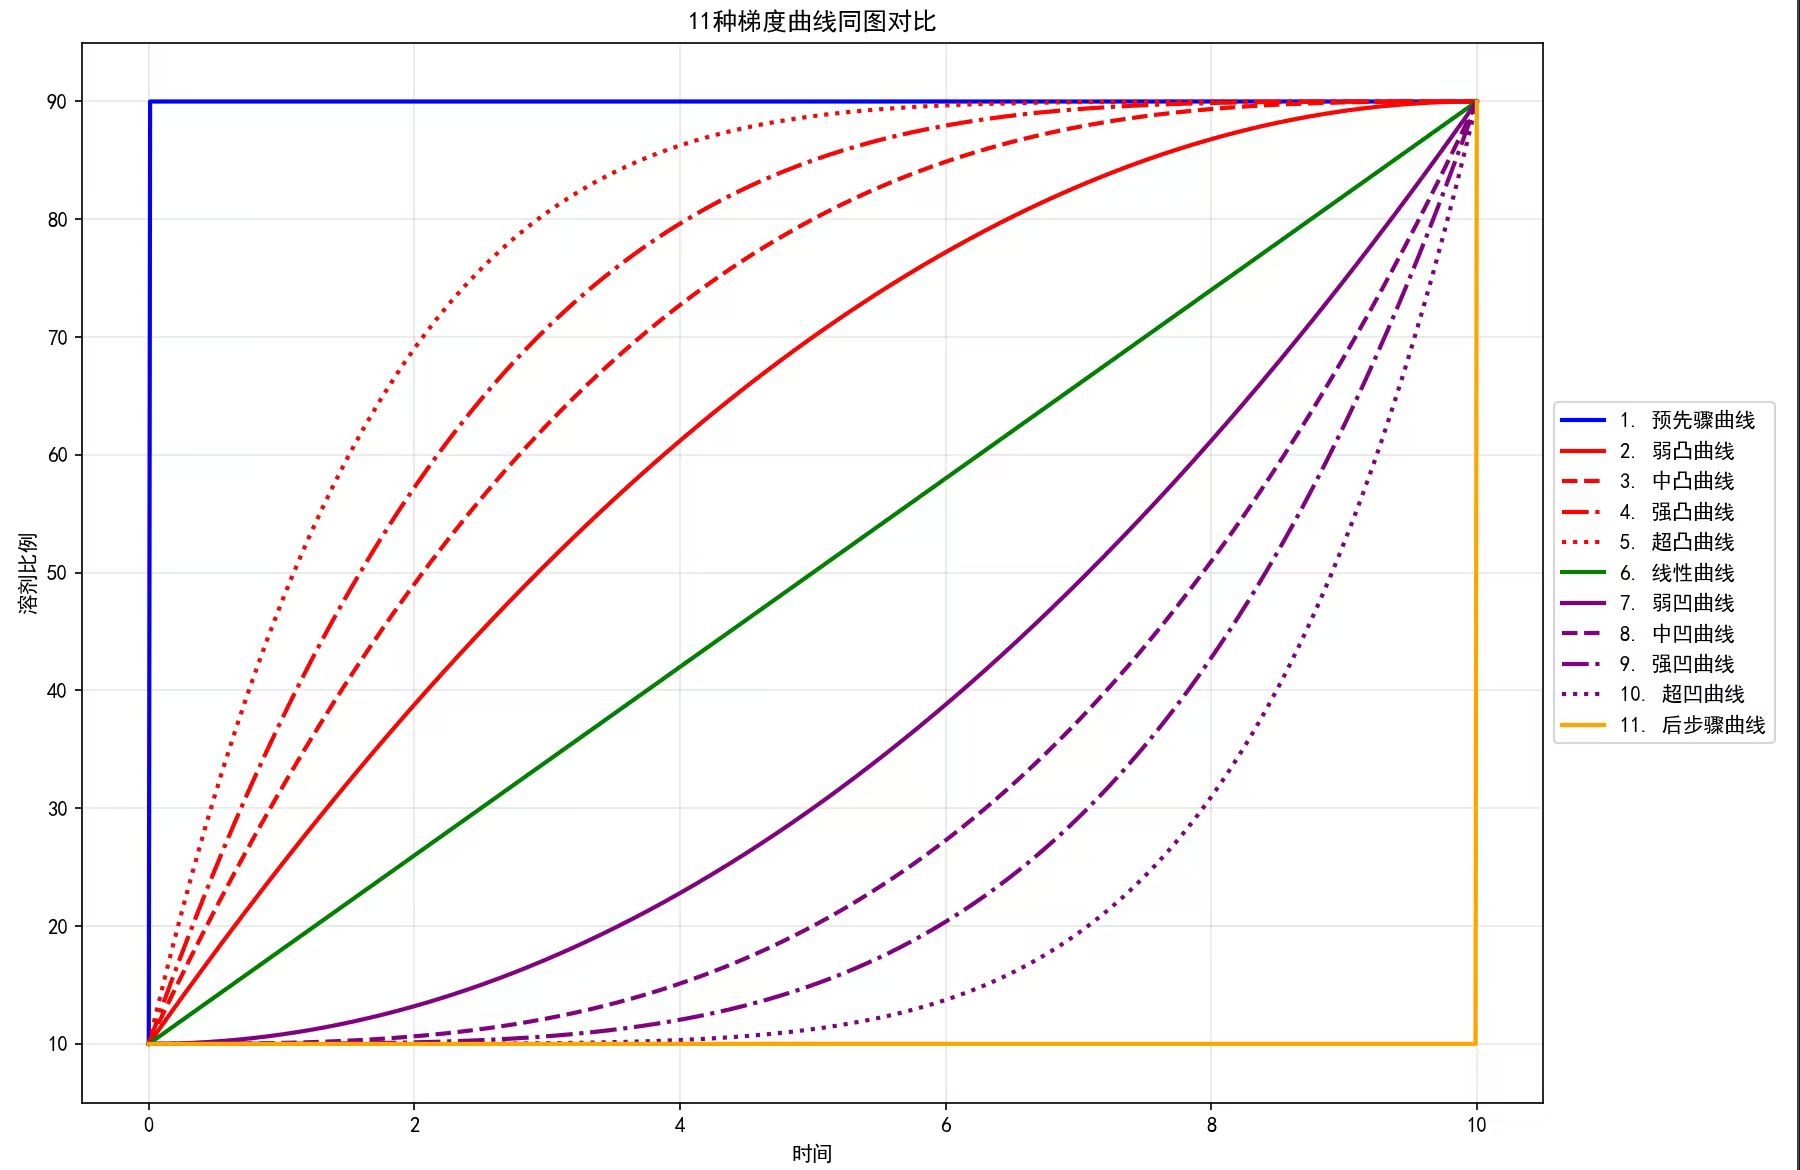
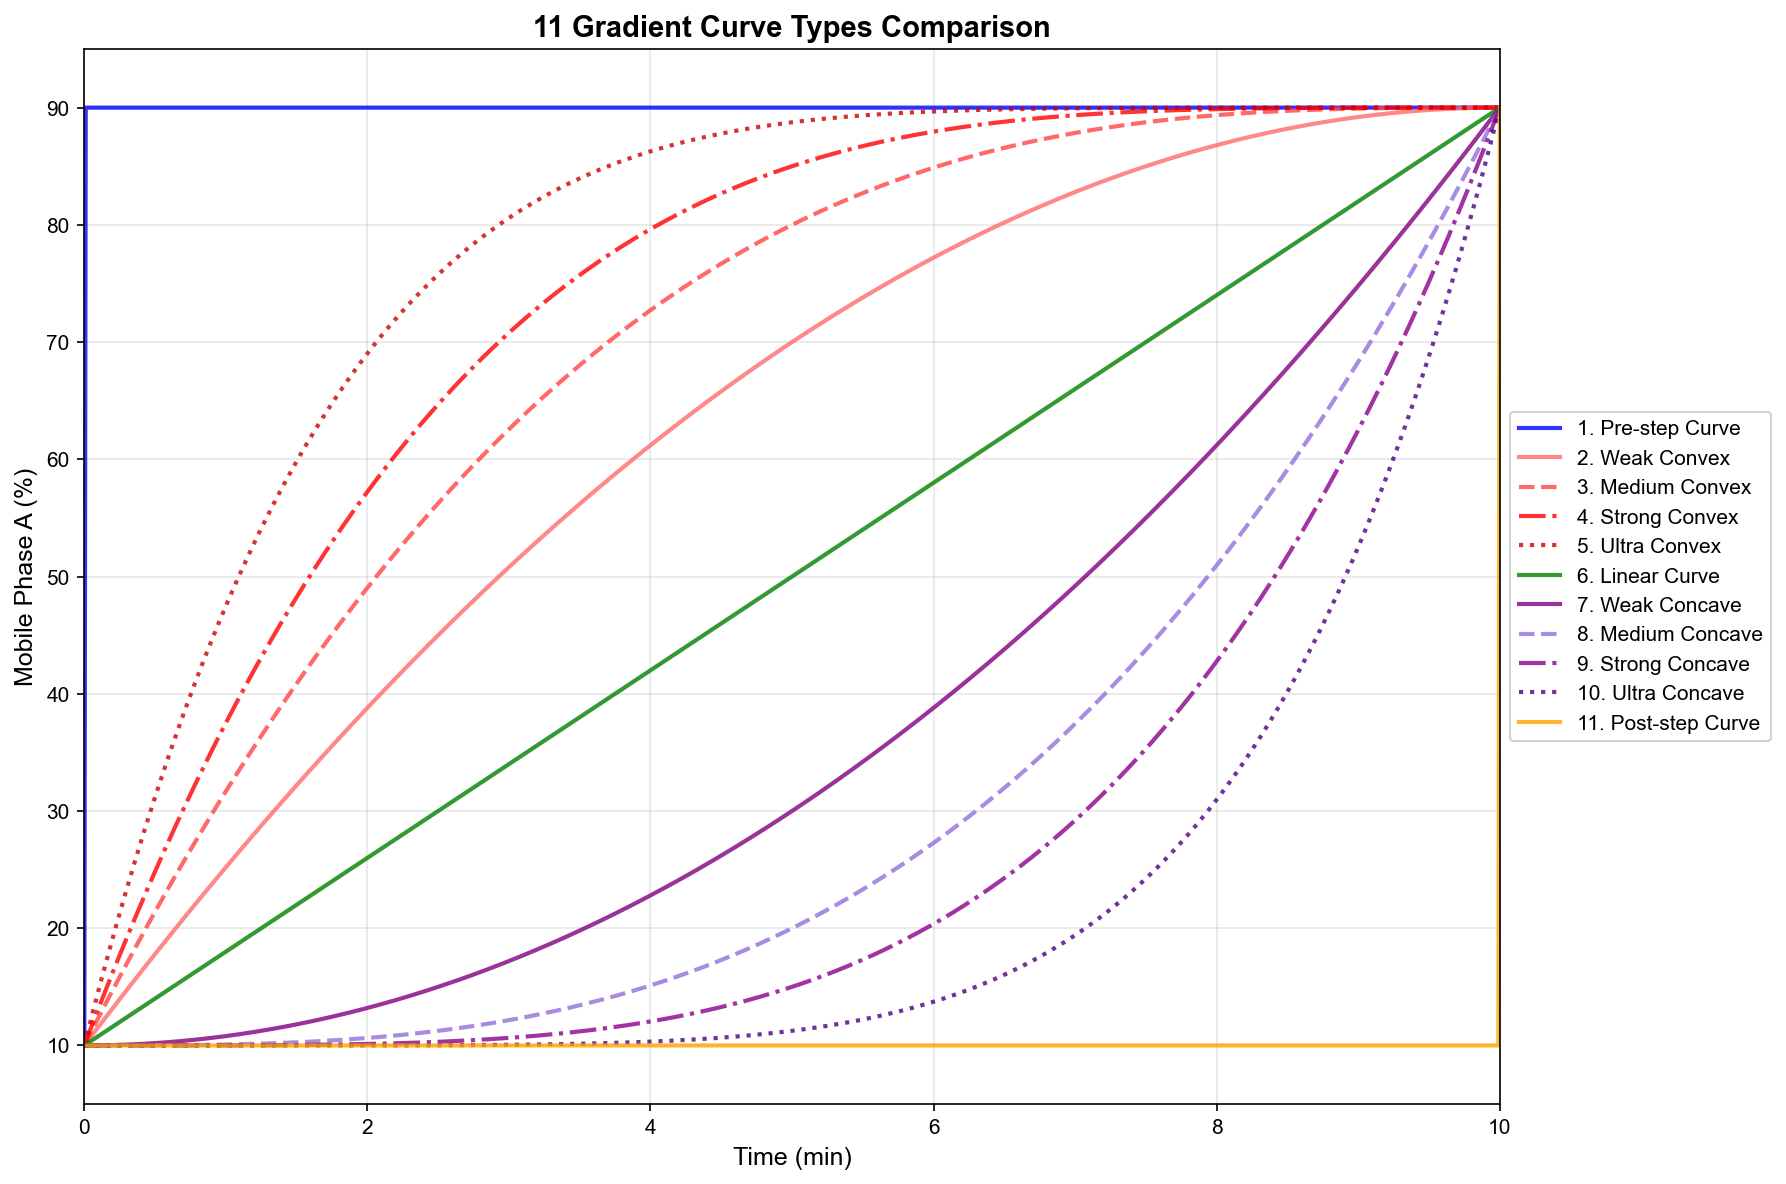
Ch

diff --git a/frontend/src/pages/AboutPage.tsx b/frontend/src/pages/AboutPage.tsx
@@ -173,64 +173,56 @@ const AboutPage: React.FC = () => {
           </Col>
           
           <Col span={10}>
-            <Row gutter={[12, 12]}>
-              <Col span={24}>
-                <Card size="small" type="inner">
-                  <Tag color="blue">1. Pre-step Curve</Tag>
-                  <Paragraph style={{ fontSize: 14, marginTop: 8, marginBottom: 0 }}>
-                    Jumps immediately to final value at start.
-                  </Paragraph>
-                </Card>
-              </Col>
-              <Col span={24}>
-                <Card size="small" type="inner">
-                  <Tag color="red">2-4. Convex Curve Series</Tag>
-                  <Paragraph style={{ fontSize: 14, marginTop: 8, marginBottom: 0 }}>
-                    Rapid change in early stage, slower in later stage.
-                  </Paragraph>
-                </Card>
-              </Col>
-              <Col span={24}>
-                <Card size="small" type="inner">
-                  <Tag color="orange">5. Super Convex Curve</Tag>
-                  <Paragraph style={{ fontSize: 14, marginTop: 8, marginBottom: 0 }}>
-                    Extremely rapid initial change, almost no change in later stage.
-                  </Paragraph>
-                </Card>
-              </Col>
-              <Col span={24}>
-                <Card size="small" type="inner">
-                  <Tag color="green">6. Linear Curve</Tag>
-                  <Paragraph style={{ fontSize: 14, marginTop: 8, marginBottom: 0 }}>
-                    Uniform change, most commonly used gradient type.
-                  </Paragraph>
-                </Card>
-              </Col>
-              <Col span={24}>
-                <Card size="small" type="inner">
-                  <Tag color="purple">7-9. Concave Curve Series</Tag>
-                  <Paragraph style={{ fontSize: 14, marginTop: 8, marginBottom: 0 }}>
-                    Slow change in early stage, accelerates in later stage.
-                  </Paragraph>
-                </Card>
-              </Col>
-              <Col span={24}>
-                <Card size="small" type="inner">
-                  <Tag color="magenta">10. Super Concave Curve</Tag>
-                  <Paragraph style={{ fontSize: 14, marginTop: 8, marginBottom: 0 }}>
-                    Almost no change in early stage, rapid change in later stage.
-                  </Paragraph>
-                </Card>
-              </Col>
-              <Col span={24}>
-                <Card size="small" type="inner">
-                  <Tag color="gold">11. Post-step Curve</Tag>
-                  <Paragraph style={{ fontSize: 14, marginTop: 8, marginBottom: 0 }}>
-                    Maintains initial value, jumps to final value at last moment.
-                  </Paragraph>
-                </Card>
-              </Col>
-            </Row>
+            <div style={{ display: 'flex', flexDirection: 'column', gap: '12px' }}>
+              <Card size="small" type="inner">
+                <Tag color="blue">1. Pre-step Curve</Tag>
+                <Paragraph style={{ fontSize: 14, marginTop: 8, marginBottom: 0 }}>
+                  Jumps immediately to final value at start.
+                </Paragraph>
+              </Card>
+              
+              <Card size="small" type="inner">
+                <Tag color="red">2-4. Convex Curve Series</Tag>
+                <Paragraph style={{ fontSize: 14, marginTop: 8, marginBottom: 0 }}>
+                  Rapid change in early stage, slower in later stage.
+                </Paragraph>
+              </Card>
+              
+              <Card size="small" type="inner">
+                <Tag color="orange">5. Super Convex Curve</Tag>
+                <Paragraph style={{ fontSize: 14, marginTop: 8, marginBottom: 0 }}>
+                  Extremely rapid initial change, almost no change in later stage.
+                </Paragraph>
+              </Card>
+              
+              <Card size="small" type="inner">
+                <Tag color="green">6. Linear Curve</Tag>
+                <Paragraph style={{ fontSize: 14, marginTop: 8, marginBottom: 0 }}>
+                  Uniform change, most commonly used gradient type.
+                </Paragraph>
+              </Card>
+              
+              <Card size="small" type="inner">
+                <Tag color="purple">7-9. Concave Curve Series</Tag>
+                <Paragraph style={{ fontSize: 14, marginTop: 8, marginBottom: 0 }}>
+                  Slow change in early stage, accelerates in later stage.
+                </Paragraph>
+              </Card>
+              
+              <Card size="small" type="inner">
+                <Tag color="magenta">10. Super Concave Curve</Tag>
+                <Paragraph style={{ fontSize: 14, marginTop: 8, marginBottom: 0 }}>
+                  Almost no change in early stage, rapid change in later stage.
+                </Paragraph>
+              </Card>
+              
+              <Card size="small" type="inner">
+                <Tag color="gold">11. Post-step Curve</Tag>
+                <Paragraph style={{ fontSize: 14, marginTop: 8, marginBottom: 0 }}>
+                  Maintains initial value, jumps to final value at last moment.
+                </Paragraph>
+              </Card>
+            </div>
           </Col>
         </Row>
       </Card>

diff --git a/generate_gradient_curves_english.py b/generate_gradient_curves_english.py
@@ -1,0 +1,86 @@
+import numpy as np
+import matplotlib.pyplot as plt
+from matplotlib import rcParams
+
+# Set English font
+rcParams['font.sans-serif'] = ['Arial', 'DejaVu Sans']
+rcParams['axes.unicode_minus'] = False
+
+# Define parameters
+T = 10  # Total duration
+y0 = 10  # Initial value
+yT = 90  # Final value
+t = np.linspace(0, T, 1000)  # Time points
+
+# Create figure
+plt.figure(figsize=(12, 8))
+
+# Calculate all curves
+curves = []
+
+# 1. Pre-step Curve
+y1 = np.full_like(t, yT)
+y1[0] = y0
+curves.append(('1. Pre-step Curve', y1, 'blue', '-'))
+
+# 2. Weak Convex
+y2 = yT - (yT - y0) * ((T - t) / T) ** 2
+curves.append(('2. Weak Convex', y2, '#FF6B6B', '-'))
+
+# 3. Medium Convex
+y3 = yT - (yT - y0) * ((T - t) / T) ** 3
+curves.append(('3. Medium Convex', y3, '#FF4444', '--'))
+
+# 4. Strong Convex
+y4 = yT - (yT - y0) * ((T - t) / T) ** 4
+curves.append(('4. Strong Convex', y4, '#FF0000', '-.'))
+
+# 5. Ultra Convex
+y5 = yT - (yT - y0) * ((T - t) / T) ** 6
+curves.append(('5. Ultra Convex', y5, '#CC0000', ':'))
+
+# 6. Linear Curve
+y6 = y0 + (yT - y0) * t / T
+curves.append(('6. Linear Curve', y6, 'green', '-'))
+
+# 7. Weak Concave
+y7 = y0 + (yT - y0) * (t / T) ** 2
+curves.append(('7. Weak Concave', y7, 'purple', '-'))
+
+# 8. Medium Concave
+y8 = y0 + (yT - y0) * (t / T) ** 3
+curves.append(('8. Medium Concave', y8, '#9370DB', '--'))
+
+# 9. Strong Concave
+y9 = y0 + (yT - y0) * (t / T) ** 4
+curves.append(('9. Strong Concave', y9, '#8B008B', '-.'))
+
+# 10. Ultra Concave
+y10 = y0 + (yT - y0) * (t / T) ** 6
+curves.append(('10. Ultra Concave', y10, '#4B0082', ':'))
+
+# 11. Post-step Curve
+y11 = np.full_like(t, y0)
+y11[-1] = yT
+curves.append(('11. Post-step Curve', y11, 'orange', '-'))
+
+# Plot all curves on one chart
+for name, y, color, style in curves:
+    plt.plot(t, y, color=color, linestyle=style, linewidth=2, label=name, alpha=0.8)
+
+plt.xlabel('Time (min)', fontsize=12)
+plt.ylabel('Mobile Phase A (%)', fontsize=12)
+plt.title('11 Gradient Curve Types Comparison', fontsize=14, fontweight='bold')
+plt.grid(True, alpha=0.3)
+plt.ylim(y0-5, yT+5)
+plt.xlim(0, T)
+
+# Add legend
+plt.legend(loc='center left', bbox_to_anchor=(1, 0.5), fontsize=10, framealpha=0.9)
+
+plt.tight_layout()
+
+# Save figure
+plt.savefig('frontend/public/gradient_curves.png', dpi=150, bbox_inches='tight')
+print("English version gradient curves image saved to: frontend/public/gradient_curves.png")
+plt.show()
